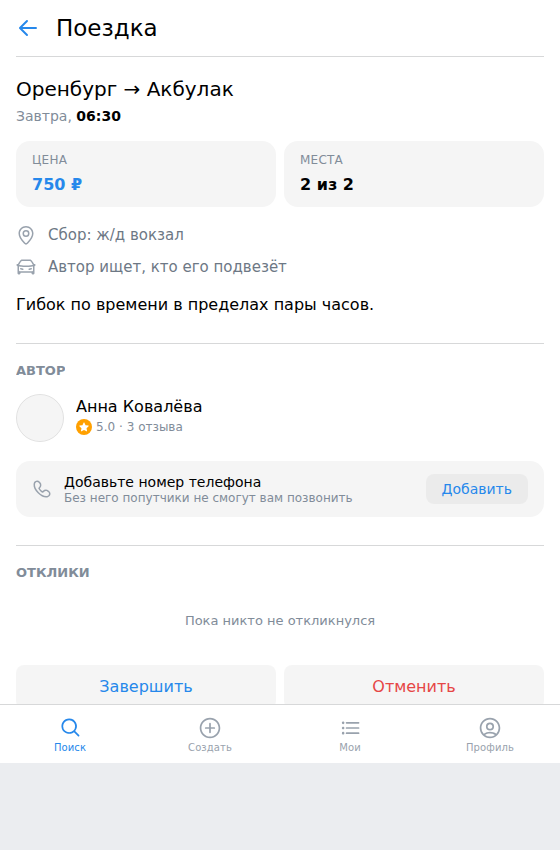
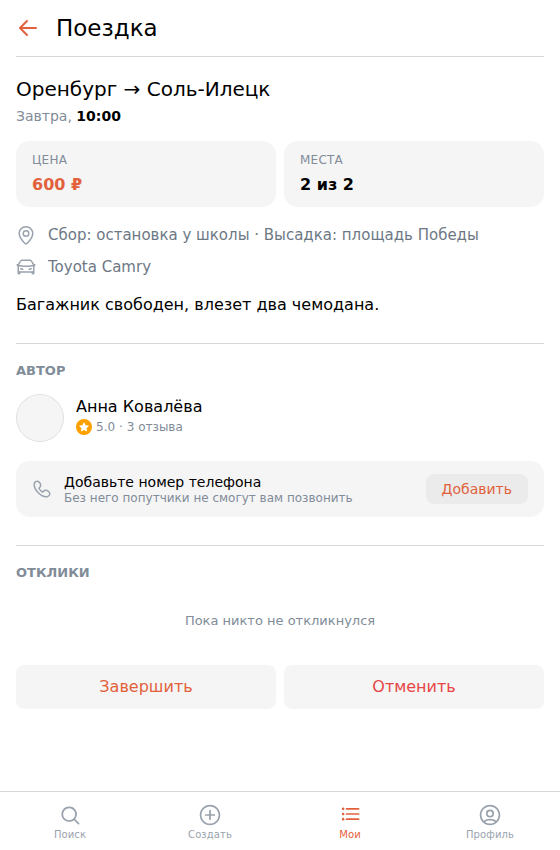
design: доперекрашены экраны, кадры Lottie и логотип ВКонтакте
В прошлый заход остались синими design/screens (девять экранов, включая
тёмную тему) и раскадровка Lottie: первая собирается из превью со
встроенным JSON, и JSON там был старый. Пересняты и пересобраны.

Отдельно нашлась настоящая ошибка: логотип ВКонтакте в кнопке «Профиль»
рисуется currentColor и вслед за кнопкой перекрасился в наш коралл.
Перекрашивать фирменный знак чужого бренда нельзя, поэтому цвет закреплён
токеном accent_azure — это синий ВКонтакте, и в набор переопределяемых
акцентных токенов он не входит.

Цена в карточке и на экране поездки переведена с accent_blue на
--app-accent: обращаться к чужому токену ради своего цвета было обходным
путём, раз свой теперь есть.

Комментарии в TripCard и design/README описывали прежнее решение
(«цвета только из токенов VKUI», «цена через accent_blue») — переписаны
по факту, вместе с заметкой, почему переопределение не работает на :root.

Claude-Session: https://claude.ai/code/session_01RjM5KUjrPyMD97q32CVPv1

diff --git a/apps/web/src/components/ContactButtons.tsx b/apps/web/src/components/ContactButtons.tsx
@@ -25,7 +25,21 @@ export function ContactButtons({ user }: { user: UserPublic }): ReactNode {
           size="l"
           mode="secondary"
           stretched
-          before={<Icon20LogoVk width={20} height={20} />}
+          before={
+            /*
+             * Цвет логотипа ВКонтакте закреплён явно. Иконка рисуется
+             * currentColor, то есть по умолчанию берёт цвет кнопки, а он
+             * у нас коралловый — и фирменный знак чужого бренда
+             * перекрашивался в наш акцент. Токен accent_azure — это
+             * синий ВКонтакте (#07f), и он не входит в набор акцентных,
+             * которые мы переопределяем.
+             */
+            <Icon20LogoVk
+              width={20}
+              height={20}
+              style={{ color: 'var(--vkui--color_accent_azure)' }}
+            />
+          }
           href={buildProfileUrl(user.vkUserId)}
           target="_blank"
           rel="noreferrer"

diff --git a/apps/web/src/components/TripCard.tsx b/apps/web/src/components/TripCard.tsx
@@ -106,12 +106,14 @@ export function TripCard({
           </Headline>
         </div>
 
-        {/* Цена — токеном accent_blue, а не accent_themed: второй в тёмной
-            теме равен #fff, и цена там сливалась с остальным текстом. */}
+        {/* Цена — акцентом. Берётся через --app-accent, а не через
+            accent_themed: второй используется как заливка, и текст им
+            красить нельзя — в тёмной теме он задуман светлым под тёмную
+            надпись, а здесь нужен ровно наоборот. */}
         <Headline
           level="1"
           weight="2"
-          style={{ whiteSpace: 'nowrap', color: 'var(--vkui--color_accent_blue)' }}
+          style={{ whiteSpace: 'nowrap', color: 'var(--app-accent)' }}
         >
           {formatPrice(trip.priceRub)}
         </Headline>

diff --git a/apps/web/src/panels/TripPanel.tsx b/apps/web/src/panels/TripPanel.tsx
@@ -199,7 +199,7 @@ export function TripPanel({ id, view }: { id: string; view: string }): ReactNode
               <Headline
                 level="1"
                 weight="1"
-                style={{ color: 'var(--vkui--color_accent_blue)' }}
+                style={{ color: 'var(--app-accent)' }}
               >
                 {formatPrice(trip.priceRub)}
               </Headline>

diff --git a/design/README.md b/design/README.md
@@ -132,10 +132,19 @@ ImageMagick, ни Pillow в окружении сборки нет, а Chromium 
 - **Тень карточки мягкая и широкая**, без тёмного ободка. Плотная тень под
   каждым блоком — главный признак вёрстки на коленке. В тёмной теме она
   почти не видна, и структуру держит волосяная граница `--app-hairline`.
-- **Цвета только из токенов VKUI.** Своя палитра сломала бы переключение
-  темы вместе с клиентом ВКонтакте.
-- **Цена — токеном `accent_blue`, а не `accent_themed`.** Второй в тёмной
-  теме равен `#fff`, и цена там сливалась с остальным текстом.
+- **Цвета из токенов VKUI, кроме акцента.** Штатный акцент VKUI — это
+  фирменный синий ВКонтакте, на нём приложение не отличалось ни от
+  клиента, ни от конкурентов. Акцент переопределён на коралл `#E2613C`
+  (`#FF9A76` в тёмной теме), остальное по-прежнему отдано VKUI, чтобы
+  тема переключалась вместе с клиентом.
+- **Переопределение написано на классах темы, а не на `:root`.** VKUI
+  объявляет токены на элементе внутри документа, и его собственное
+  объявление сильнее унаследованного — спор решается расстоянием по
+  дереву, а не весом селектора. На `:root` переопределение молча не
+  работает.
+- **Логотипу ВКонтакте цвет закреплён отдельно.** Иконка рисуется
+  `currentColor` и вслед за кнопкой перекрашивалась в наш акцент —
+  фирменный знак чужого бренда так менять нельзя.
 - **Одни и те же приёмы на разных экранах.** Плитки факта (`.app-tile`)
   показывают цену и места на экране поездки и рейтинг с числом поездок в
   профиле. Повторяющийся приём читается как система, а не как набор форм.
